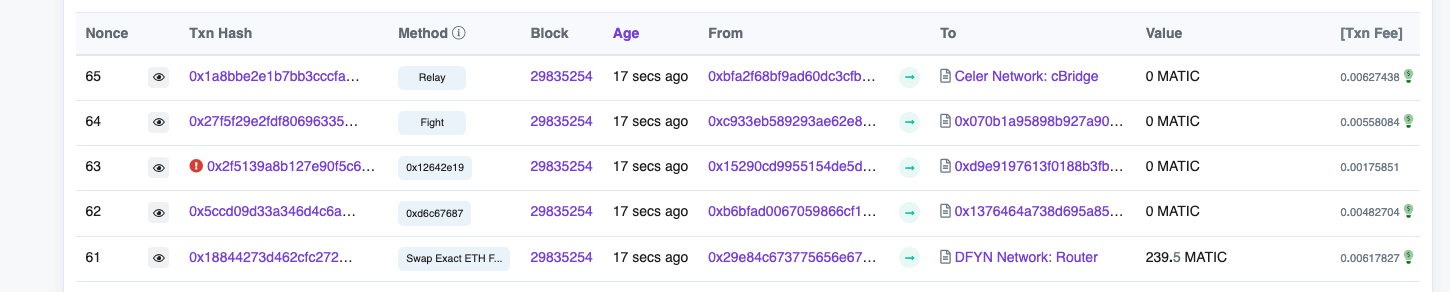
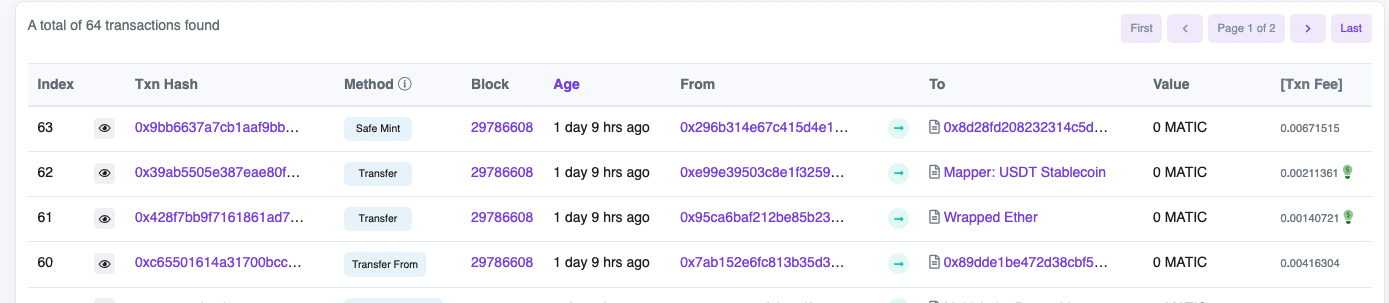
renaming

diff --git a/src/content/index.ts b/src/content/index.ts
@@ -21,7 +21,7 @@ export class TxNonceInject {
 		const delay = (ms = 200) => new Promise((r) => setTimeout(r, ms));
 		const header = document.querySelector("thead > tr");
 		header!.innerHTML =
-			'<th scope="col" width="20">Nonce</th>' + header!.innerHTML;
+			'<th scope="col" width="20">Index</th>' + header!.innerHTML;
 		const res = document.querySelectorAll("tbody > tr");
 		let i = 0;
 		res.forEach(async (el) => {

diff --git a/readme.md b/readme.md
@@ -2,11 +2,11 @@
 
 ## Features
 
-- Add Nonce column when viewing transactions of a block
+- Add Index column when viewing transactions of a block
 
-Make it easy to view transaction nonce inside the block.
+Make it easy to view transaction index inside the block.
 
-![adds a nonce column](screenshot.png)
+![adds an index column](screenshot.png)
 
 
 
